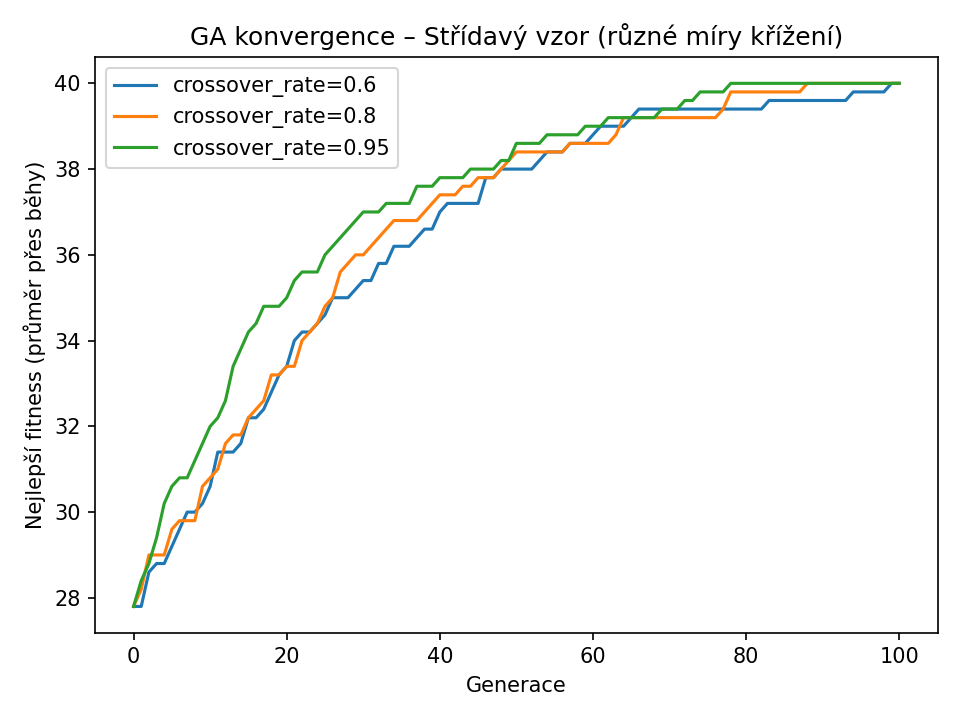
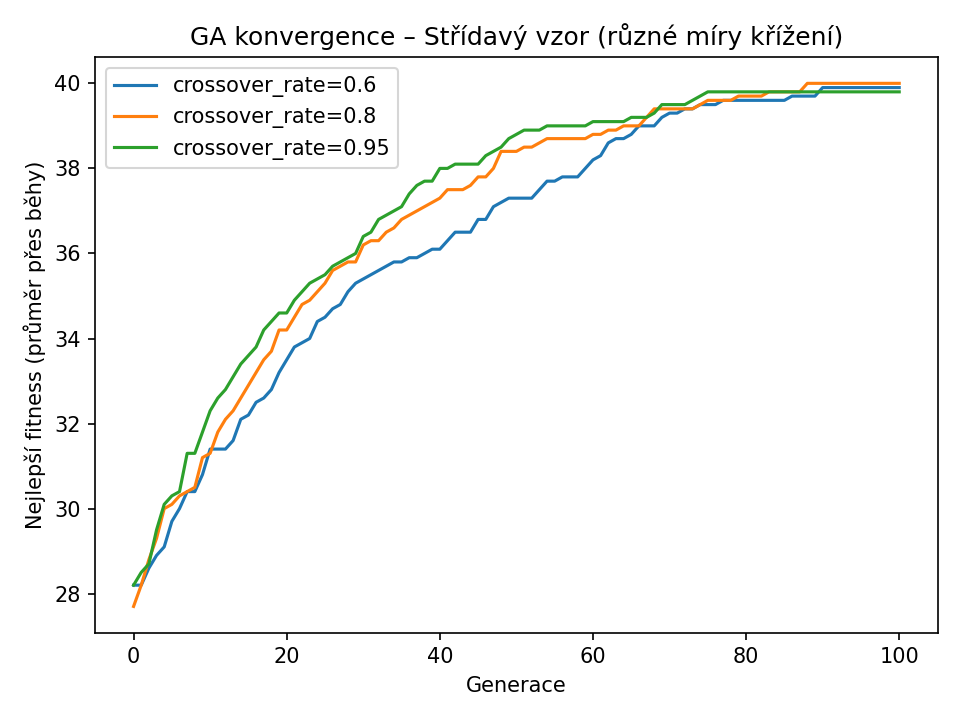
final first solution

diff --git a/hw1/genetic_algorithm.py b/hw1/genetic_algorithm.py
@@ -54,8 +54,8 @@ def crossover(population):
 
 def mutate(individual, mutation_rate=0.01):
     for i in range(len(individual)):
-        if random.random() < mutation_rate: # Mutation chance
-            individual[i] = 1 - individual[i]  # Flip bit (assuming binary representation)
+        if random.random() < mutation_rate: # mutation chance
+            individual[i] = 1 - individual[i]  # flip bit (assuming binary representation)
     return individual
 
 def genetic_algorithm(population, fitness_fn, generations, mutation_rate=0.01, crossover_rate=0.9, elitism=2):
@@ -75,12 +75,12 @@ def genetic_algorithm(population, fitness_fn, generations, mutation_rate=0.01, c
         # produce the rest
         while len(next_generation) < len(population):
             parent1, parent2 = select_parents(population, fitness_fn)
-            # Crossover with probability
+            # crossover with probability
             if random.random() < crossover_rate:
                 child = crossover(parent1, parent2)
             else:
                 child = parent1[:]
-            # Mutation
+            # mutation
             mutate(child, mutation_rate)
             next_generation.append(child)
 
@@ -114,12 +114,10 @@ def fitness_alternating(individual):
 def init_population(pop_size, gene_len):
     return [[random.randint(0, 1) for _ in range(gene_len)] for _ in range(pop_size)]
 
-def run_averaged(fitness_fn, gene_len, pop_size, generations, mutation_rate, crossover_rate, elitism, repeats, seed_base=1000):
-    """Run GA multiple times and return the list of per-generation best fitness means."""
+def run_averaged(fitness_fn, gene_len, pop_size, generations, mutation_rate, crossover_rate, elitism, repeats):
     # accumulate histories and average them generation-wise
     totals = None
     for r in range(repeats):
-        random.seed(seed_base + r)
         pop = init_population(pop_size, gene_len)
         _, hist = genetic_algorithm(pop, fitness_fn, generations, mutation_rate=mutation_rate, crossover_rate=crossover_rate, elitism=elitism)
         if totals is None:
@@ -159,9 +157,9 @@ if __name__ == "__main__":
             mutation_rate=m,
             crossover_rate=0.9,
             elitism=ELITISM,
-            repeats=5,
-            seed_base=2000
+            repeats=10 # number of runs to average
         )
+
     # plot OneMax
     plt.figure()
     for m in mut_vals:
@@ -185,8 +183,7 @@ if __name__ == "__main__":
             mutation_rate=0.01,
             crossover_rate=c,
             elitism=ELITISM,
-            repeats=5,
-            seed_base=3000
+            repeats=10
         )
 
     # plot Alternating

diff --git a/problem_loupezniku_evo.py b/problem_loupezniku_evo.py
@@ -1,0 +1,11 @@
+# problém rozdělení množiny na k podmnožin se stejným součtem prvků
+# pomocí evolučního algoritmu
+
+# kódování jedince: vektor čísel {1,...,k} délky n (n je počet prvků množiny)
+# chceme minimalizovat rozdíl mezi největším a nejmenším součtem prvků v podmnožinách
+# chceme ruletu, problém se zápornou fitness
+# fitness: 1/(max - min + 1) (čím menší rozdíl, tím větší fitness)
+
+# případně můžeme použít turnajovou selekci
+# nezáleží na škálování fitness, protože porovnáváme jen relativní hodnoty (pořadí jedinců)
+
